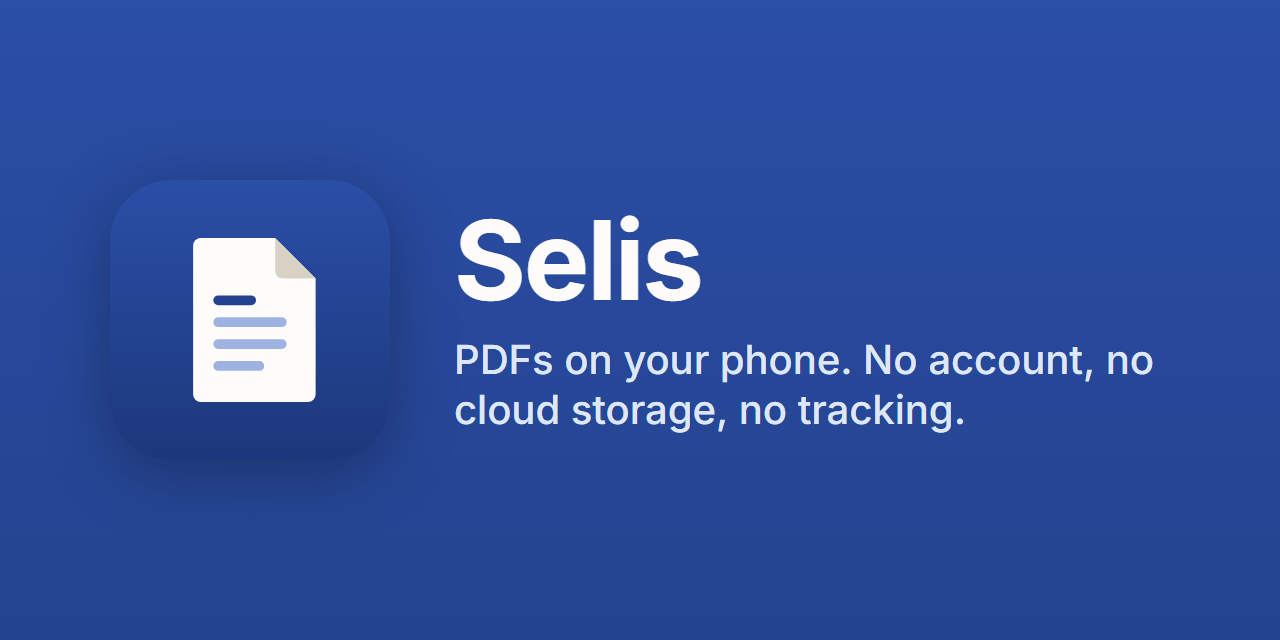
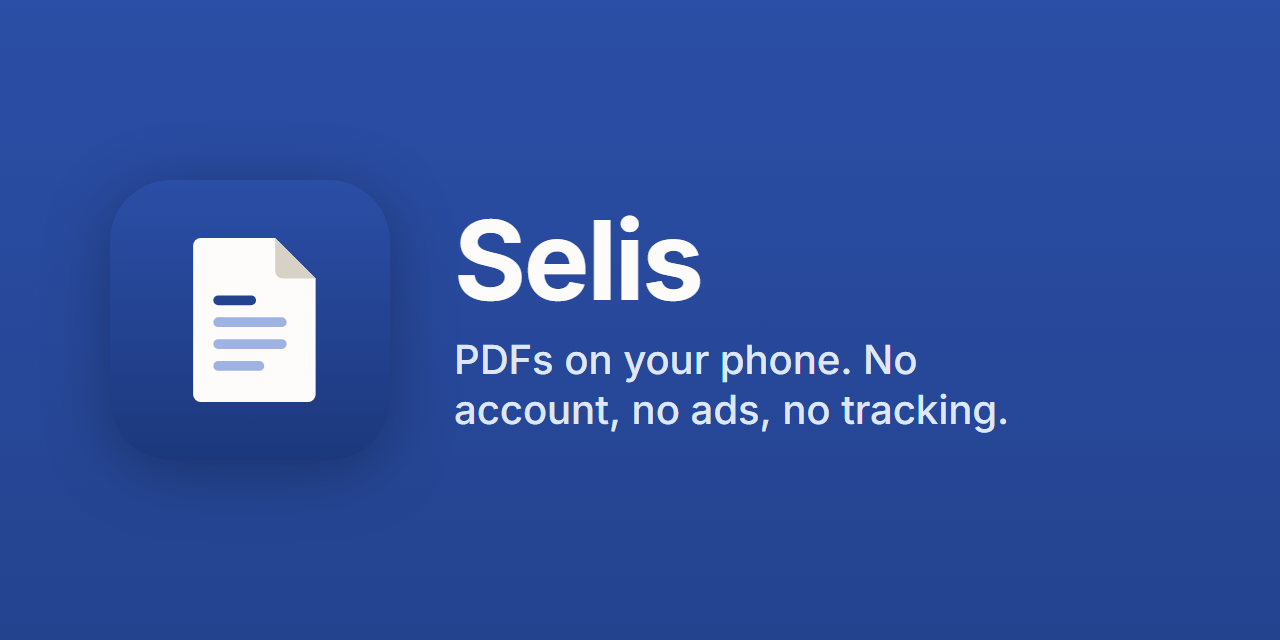
docs(privacy): graphics line without the cloud clause, network line of the listings, SPEC principle
- Feature graphic, website og image and GitHub social preview read "PDFs on
  your phone. No account, no ads, no tracking." (the claims of the Play short
  description), balanced over two lines (text-wrap: balance).
- Store descriptions (Play and App Store, en + el): the network is used only
  while the Transfer screen is open or a transfer you started is running, as
  docs/PRIVACY.md says.
- SPEC product principle: "no cloud storage".

Claude-Session: https://claude.ai/code/session_0163Dbg2hdFwTbZWGMZshwEs

Changed region(s): [[0.3438, 0.625, 0.7812, 0.6875], [0.7188, 0.5312, 0.9062, 0.5938]]

diff --git a/tools/store/render-graphics.ts b/tools/store/render-graphics.ts
@@ -26,7 +26,7 @@ import { chromium } from "playwright";
 const ROOT = join(import.meta.dirname, "..", "..");
 const META = join(ROOT, "fastlane", "metadata", "android");
 
-const TAGLINE = { title: "Selis", line: "PDFs on your phone. No account, no cloud storage, no tracking." };
+const TAGLINE = { title: "Selis", line: "PDFs on your phone. No account, no ads, no tracking." };
 
 function token(css: string, name: string): string {
   const m = css.match(new RegExp(`--${name}:\\s*([^;]+);`));
@@ -66,7 +66,7 @@ async function main(): Promise<void> {
         body{background:linear-gradient(180deg,#2b4ea6,${accent});font-family:Inter,sans-serif;color:${paper};display:flex;align-items:center;gap:56px;padding:0 88px;box-sizing:border-box}
         svg{width:232px;height:232px;flex:none;filter:drop-shadow(0 12px 32px rgb(0 0 0 / .28))}
         h1{margin:0 0 18px;font-size:96px;font-weight:700;letter-spacing:-.02em;line-height:1}
-        p{margin:0;font-size:36px;font-weight:500;line-height:1.25;max-width:560px;color:#dfe6f7}
+        p{margin:0;font-size:36px;font-weight:500;line-height:1.25;max-width:560px;text-wrap:balance;color:#dfe6f7}
       </style>${svg}<div><h1>${text.title}</h1><p>${text.line}</p></div>`);
       // Runs in the page (DOM types are not in this Node project's lib).
       await page.evaluate("document.fonts.ready.then(() => true)");
@@ -84,7 +84,7 @@ async function main(): Promise<void> {
         body{background:linear-gradient(180deg,#2b4ea6,${accent});font-family:Inter,sans-serif;color:${paper};display:flex;align-items:center;gap:64px;padding:0 110px;box-sizing:border-box}
         svg{width:280px;height:280px;flex:none;filter:drop-shadow(0 12px 32px rgb(0 0 0 / .28))}
         h1{margin:0 0 20px;font-size:110px;font-weight:700;letter-spacing:-.02em;line-height:1}
-        p{margin:0;font-size:40px;font-weight:500;line-height:1.25;color:#dfe6f7}
+        p{margin:0;font-size:40px;font-weight:500;line-height:1.25;text-wrap:balance;color:#dfe6f7}
       </style>${svg}<div><h1>${TAGLINE.title}</h1><p>${TAGLINE.line}</p></div>`);
       await page.evaluate("document.fonts.ready.then(() => true)");
       await page.screenshot({ path: out });

diff --git a/docs/SPEC.md b/docs/SPEC.md
@@ -17,7 +17,7 @@ Exported: 2026-10-09. Αν αλλάξει το live doc, ξανακάνε export
 
 **Αρχές προϊόντος (μη διαπραγματεύσιμες):**
 
-- No account, no login, no cloud. Ό,τι κάνει ο χρήστης μένει στη συσκευή.
+- No account, no login, no cloud storage. Ό,τι κάνει ο χρήστης μένει στη συσκευή.
 - Μηδέν network by default. Δίκτυο ανοίγει μόνο όταν ο χρήστης ξεκινά μεταφορά.
 - No ads, no tracking, no telemetry, no analytics SDKs.
 - Non-destructive: το αρχικό PDF δεν χάνεται ποτέ σιωπηλά. Κάθε save = νέα έκδοση.
